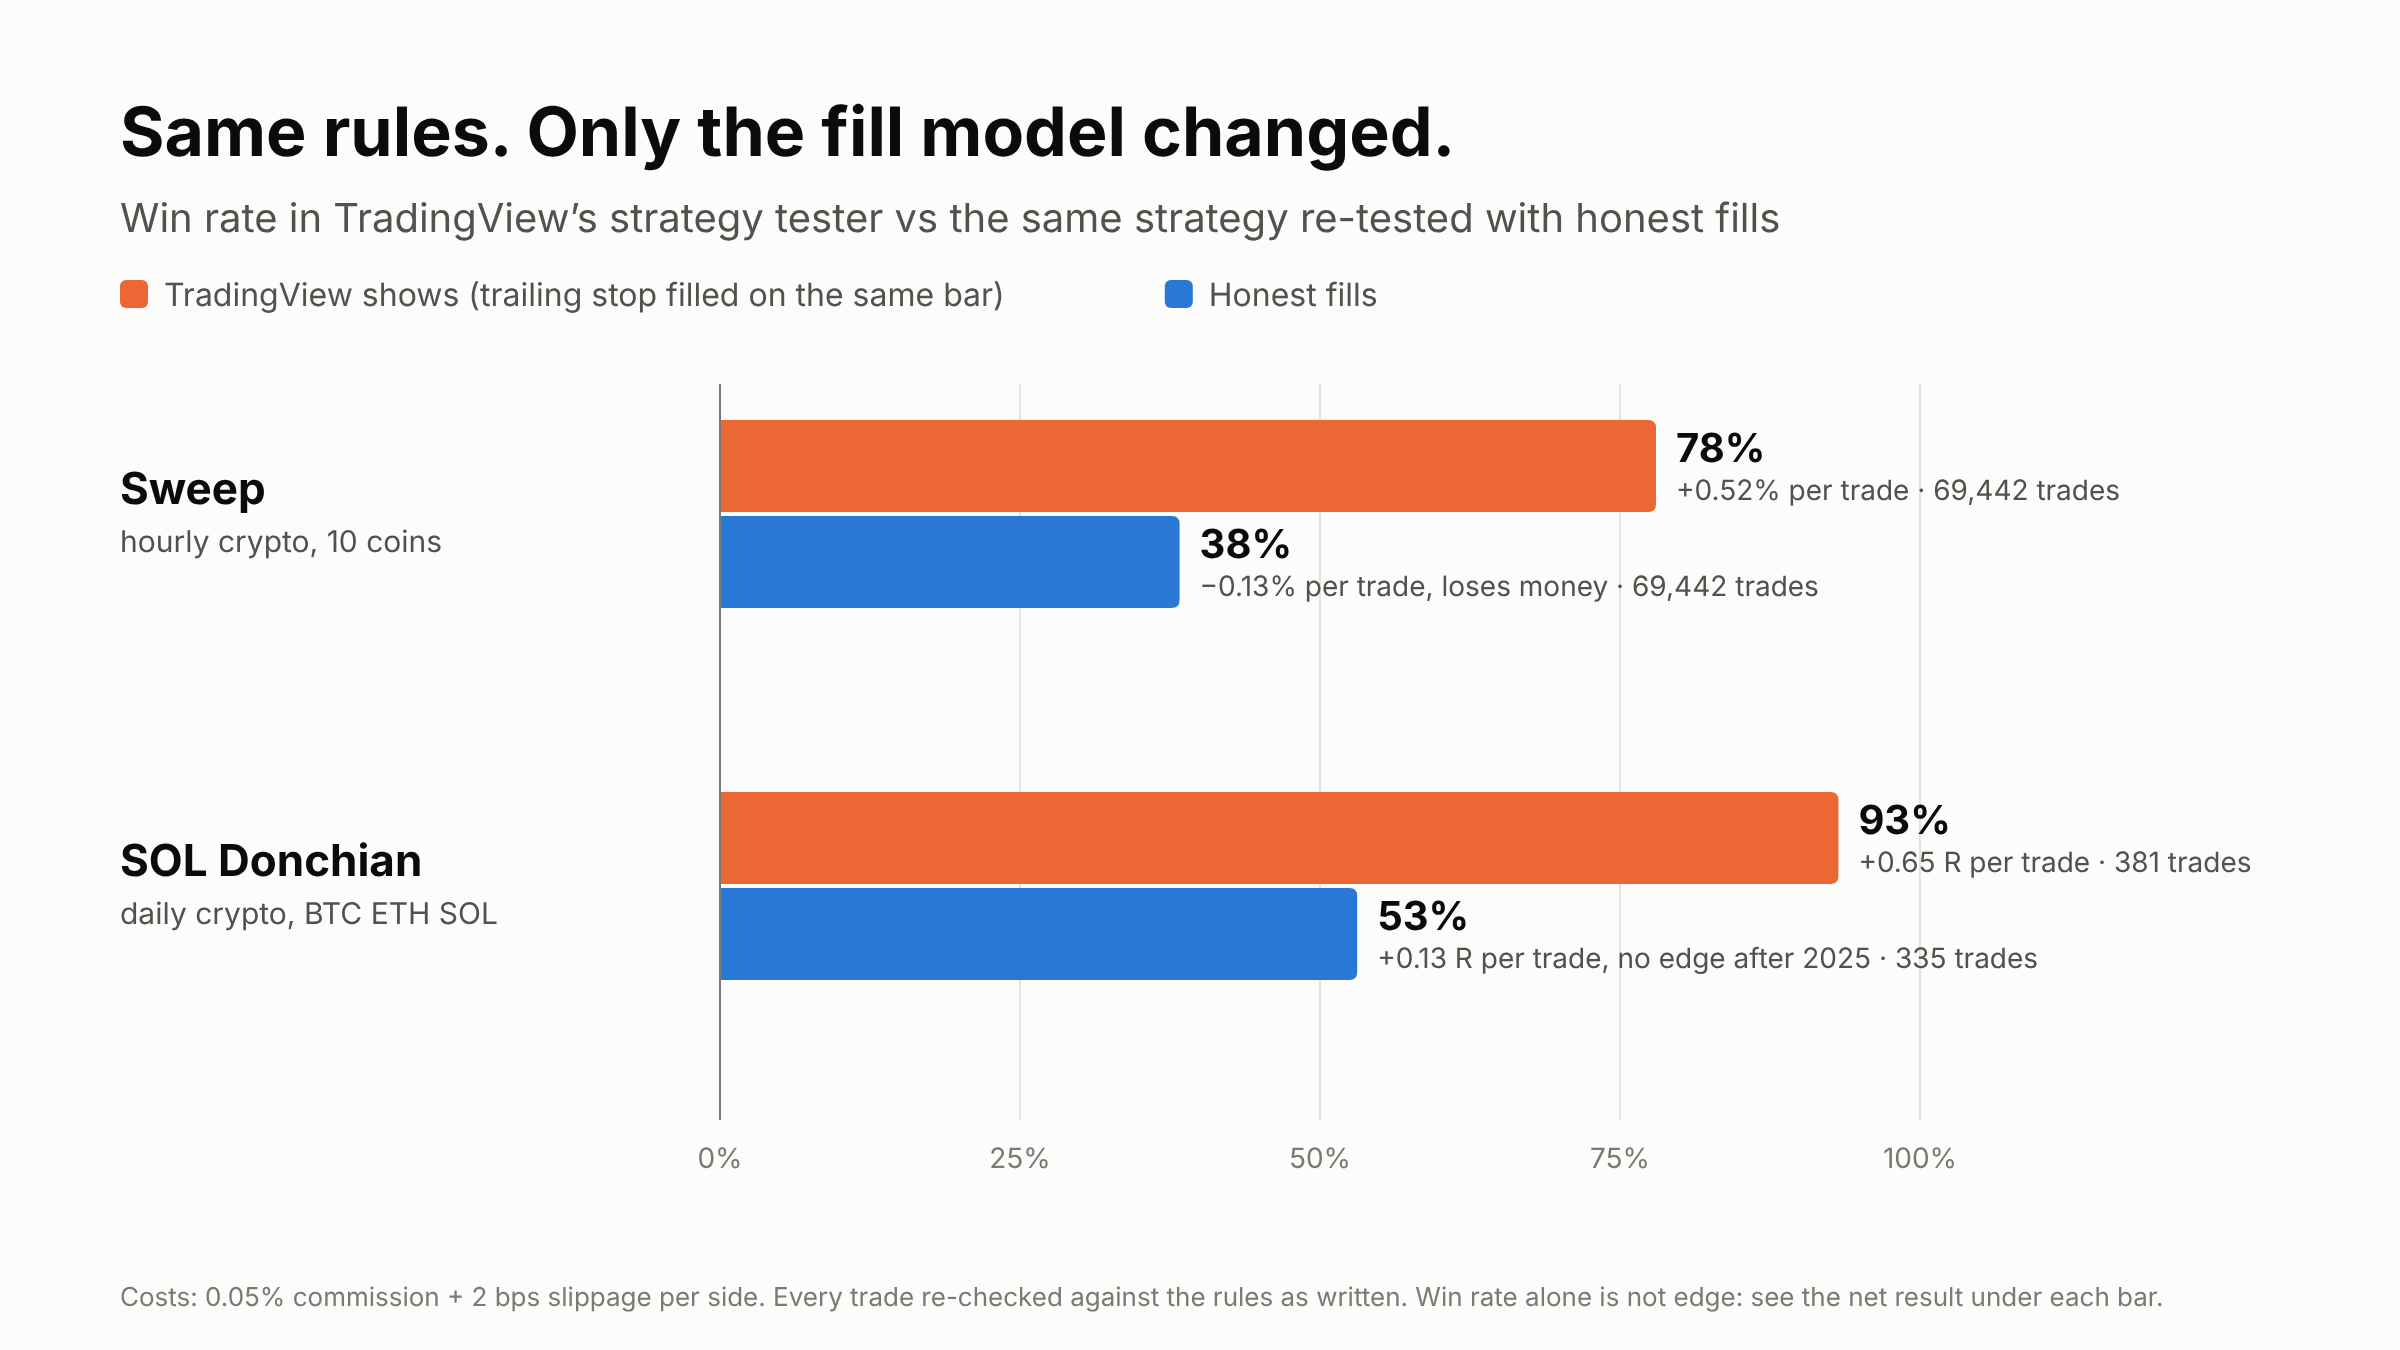
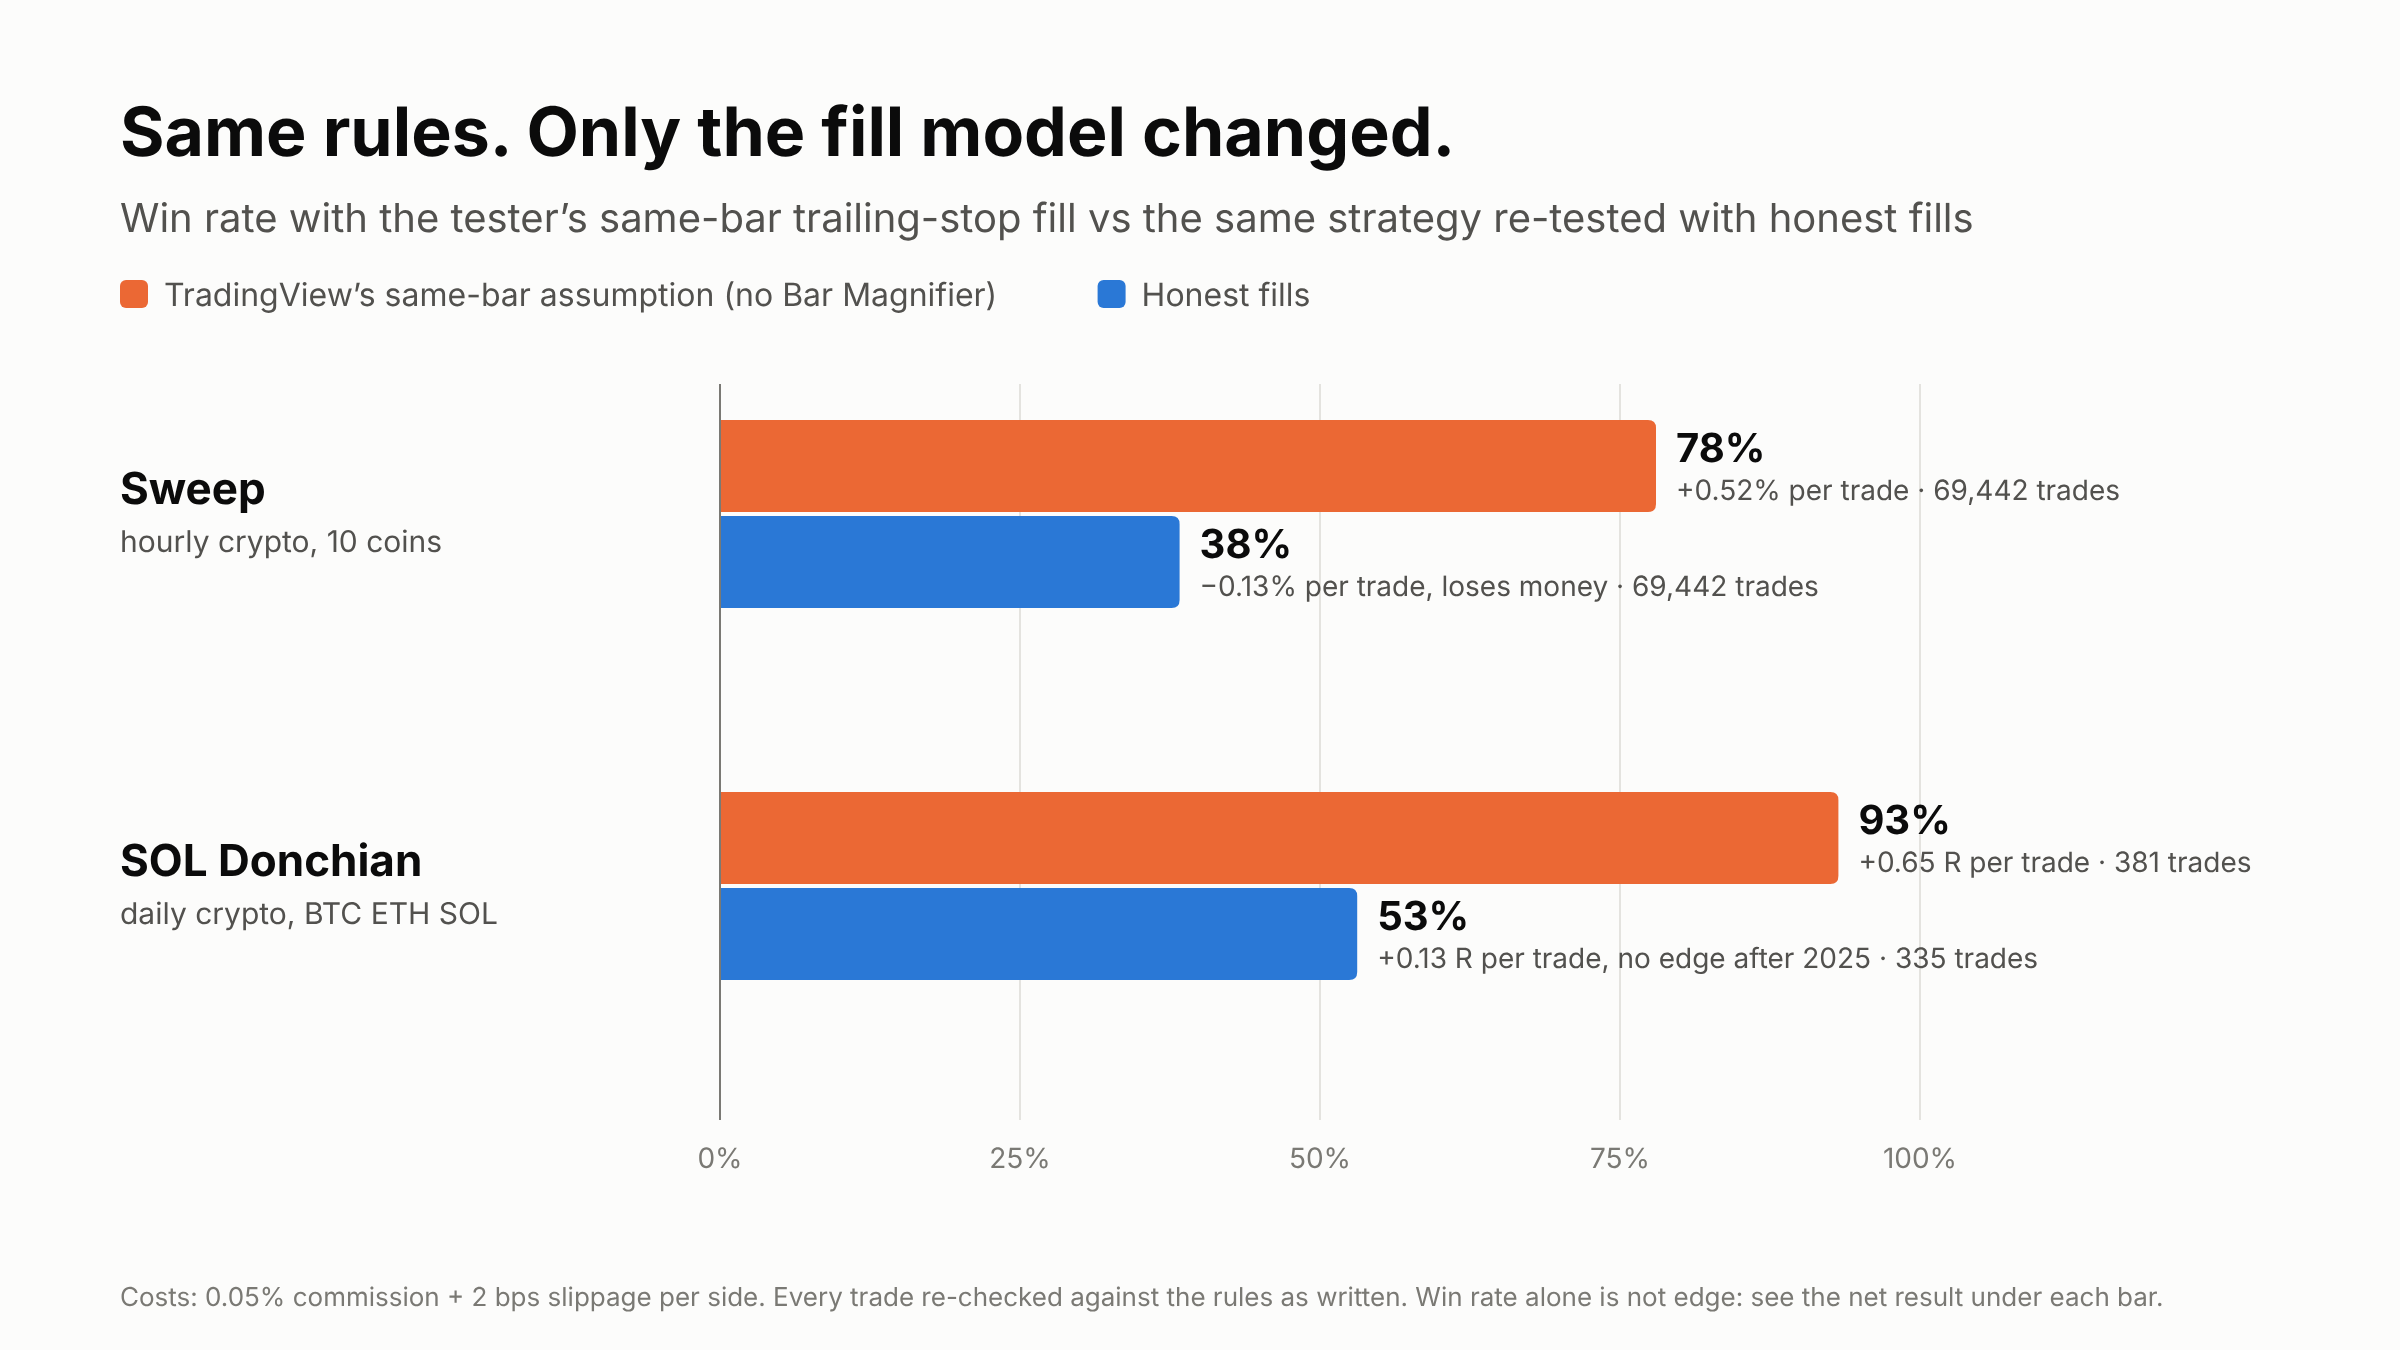
Add Track A Reddit post draft; label chart's same-bar series accurately
Claude-Session: https://claude.ai/code/session_01M99Cf8uWEbVaTReShQAVhW

Changed region(s): [[0.125, 0.1556, 0.8125, 0.2489]]

diff --git a/business/track-b/make_chart.py b/business/track-b/make_chart.py
@@ -22,10 +22,10 @@ s = [f'<svg xmlns="http://www.w3.org/2000/svg" width="{W}" height="{H}" viewBox=
      f'font-family="Inter, Helvetica, Arial, sans-serif">',
      f'<rect width="{W}" height="{H}" fill="{SURF}"/>',
      f'<text x="60" y="78" font-size="34" font-weight="700" fill="{T1}">Same rules. Only the fill model changed.</text>',
-     f'<text x="60" y="116" font-size="20" fill="{T2}">Win rate in TradingView’s strategy tester vs the same strategy re-tested with honest fills</text>']
+     f'<text x="60" y="116" font-size="20" fill="{T2}">Win rate with the tester’s same-bar trailing-stop fill vs the same strategy re-tested with honest fills</text>']
 # legend
 lx = 60
-for name, c in [("TradingView shows (trailing stop filled on the same bar)", SHOWN), ("Honest fills", REAL)]:
+for name, c in [("TradingView’s same-bar assumption (no Bar Magnifier)", SHOWN), ("Honest fills", REAL)]:
     s.append(f'<rect x="{lx}" y="140" width="14" height="14" rx="3" fill="{c}"/>')
     s.append(f'<text x="{lx+22}" y="153" font-size="16" fill="{T2}">{name}</text>')
     lx += 22 + len(name) * 8.4 + 30

diff --git a/business/track-a/reddit-post.md b/business/track-a/reddit-post.md
@@ -1,0 +1,86 @@
+# Track A: Reddit post (draft, not posted)
+
+**Where:** r/algotrading first (it allows method posts but is strict about
+promotion, so read its rules on the day and keep the offer in one line at the
+end). Cross-post to r/TradingView 2–3 days later if the first post does well.
+
+**Attach:** `business/track-b/before-after.png` as the post image, or upload it
+and link it in the first line.
+
+**Title options** (pick one):
+1. My strategy showed a 78% win rate in TradingView's tester. With honest fills it's 38% and loses money.
+2. Why trailing-stop strategies show 90% win rates on TradingView (and how to check yours)
+3. Same rules, only the fill model changed: 93% → 53% win rate
+
+---
+
+## Post
+
+I've been porting TradingView strategies to Python and re-testing them with a
+stricter fill model. Two of them turned out to be the same story, and I think
+it explains a lot of the 80–90% win rates people post (and sell).
+
+**The short version:** if a strategy uses a tight trailing stop, the tester
+(without Bar Magnifier) lets a bar's own high move the stop *up*, then fills
+the stop on that same bar's low. On an OHLC bar you don't know whether the
+high or the low came first. Assuming the high always came first books most of
+the bar's range as profit.
+
+**Strategy 1: Sweep** (hourly, 10 Binance coins, 2020 to now, 69,442 trades).
+Long when a 4-period EMA crosses above session VWAP, short when it crosses
+below, always in the market, trailing stop 0.005 ATR, no hard stop.
+
+- Same-bar fills: **78% win rate, +0.52% per trade.** The equity curve
+  "grows" by a number with 22 digits.
+- Honest fills (the stop only uses bars that have already closed):
+  **38% win rate, −0.13% per trade** after 0.05% commission and 2 bps
+  slippage per side. Every coin loses money, both before and after 2025.
+- Before costs it's +0.007% per trade, which is basically zero.
+
+**Strategy 2: Donchian breakout** (daily, BTC/ETH/SOL). 20-day breakout in
+the direction of the 200-day SMA, 1.5 ATR hard stop, 0.02 ATR trail.
+
+- Same-bar fills: **93% win rate.**
+- Honest fills: **53%,** and the 2025+ out-of-sample half has t = 0.74,
+  so no edge where it matters. When I re-checked every same-bar trade
+  against the rules, 373 of 381 couldn't have happened as booked.
+
+Same rules in both runs. The only thing that changed is when the trailing stop
+is allowed to move.
+
+**How to check a strategy yourself:**
+
+1. **Turn on Bar Magnifier** in the strategy properties, if your plan has it,
+   and see whether the win rate collapses.
+2. **Compare the trail distance with a normal bar's range.** A trail that's a
+   small fraction of one bar's range is the warning sign: the tester can
+   ratchet it up and get stopped out "in profit" on the same bar.
+3. **Ignore win rate and look at net profit per trade** after realistic
+   commission *and* slippage. TradingView's own help page lists "the vendor
+   advertises its win rate" as a reason not to pay for a script.
+4. **Check how long trades last.** If almost every trade exits one or two
+   bars after entry, the trail is doing the "winning", not the signal.
+
+Happy to share more of the method in the comments.
+
+*Disclosure: I'm thinking about offering this as a paid audit. Before that,
+I'll audit 3 strategies for free, especially ones you're thinking of buying.
+Comment or DM with the script name.*
+
+---
+
+## Notes before posting
+
+- Every number above comes from `trading-desk/sweep/README.md` and
+  `trading-desk/donchian/README.md`. Don't round them further or add new ones.
+- The orange numbers come from re-running the tester's same-bar assumption in
+  Python (`--trail-mode same_bar`), not from TradingView screenshots. If
+  someone asks, say so. Better still, take a real Strategy Tester screenshot of
+  the Pine version first, so you can show the tester's own number next to
+  yours.
+- If r/algotrading's rules on the day forbid the disclosure line, remove it
+  and only take audit requests that come in through the comments.
+- Track replies in the table in `business/track-b/messages.md`, or start one
+  here. Track A passes if at least 1 person pays $49 on day 14, or at least 2
+  of the 3 free-audit users say they would have paid and name a script they
+  were about to buy.

diff --git a/business/README.md b/business/README.md
@@ -6,6 +6,7 @@ Work from the Show Me The Money (`money-*`) skills on turning the
 - `sessions/`: `/money-save` snapshots, oldest first. `~/.smtm/` is wiped when a
   cloud container resets, so copy them back before running `/money-restore`:
   `mkdir -p ~/.smtm/sessions/claude- && cp business/sessions/*.md ~/.smtm/sessions/claude-/`
+- `track-a/reddit-post.md`: the buyer-side post (draft, not posted).
 - `track-b/before-after.png`: the proof chart for posts and email 1 (SVG too;
   rebuild with `python3 business/track-b/make_chart.py business/track-b/before-after.svg`).
 - `track-b/`: the seller-side experiment, with 20 targets (`targets.csv`) and a
